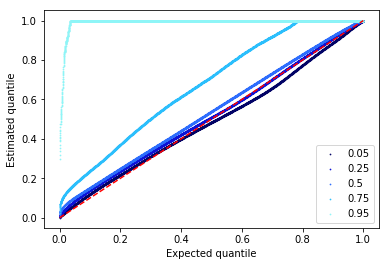
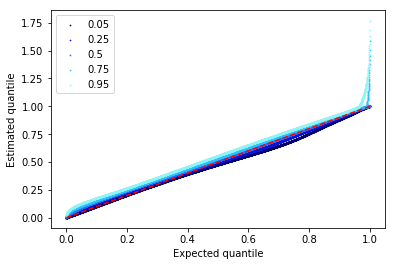
Fix diagnostic to account for dropout

diff --git a/docs/zinb.html b/docs/zinb.html
@@ -1,7 +1,7 @@
 <!DOCTYPE html>
 <html lang="en">
 <head>
-<!-- 2018-02-15 Thu 17:00 -->
+<!-- 2018-02-16 Fri 11:10 -->
 <meta charset="utf-8">
 <meta name="viewport" content="width=device-width, initial-scale=1">
 <title>Mean/dispersion estimation</title>
@@ -276,7 +276,7 @@ analyses:
 <li><a href="#orge3a2968">We develop visual diagnostics</a> of the fitted models to check goodness of fit</li>
 <li><a href="#orge17e562">We fit a model without dropout</a> and show it does not fit the data</li>
 <li><a href="#org3c6170a">We fit a model assuming dropout per gene</a></li>
-<li><a href="#org72d12f4">We fit a model assumint dropout per individual per gene</a></li>
+<li><a href="#org72d12f4">We fit a model assuming dropout per individual per gene</a></li>
 </ol>
 </div>
 </div>
@@ -536,6 +536,13 @@ We can use an idea from <code>ashr</code>: Let \(\hat{G}_{ijk}\) denote the CDF 
 \(\hat{G}_{ijk}(r_{ijk})\) should be uniform.
 </p>
 
+<p>
+In the case of dropout, the PDF has a point mass at zero of size \(\pi\) and
+therefore the distribution of values of the CDF is no longer uniform. To
+handle this, plot randomized quantiles \(\tilde{G}_{ijk}(r_{ijk}) =
+  \hat{G}_{ijk}(r_{ijk}) + \pi U\), where \(U \sim \mathrm{Unif}(0, 1)\).
+</p>
+
 <div class="org-src-container">
 <pre class="src src-ipython"><span class="org-keyword">def</span> <span class="org-function-name">estimated_cdf</span>(x, mean, disp, size, onehot, gene_dropout=<span class="org-constant">None</span>, ind_dropout=<span class="org-constant">None</span>):
   <span class="org-variable-name">n</span> = onehot.dot(np.exp(-disp.values.T) + 1e-8)
@@ -545,9 +552,9 @@ We can use an idea from <code>ashr</code>: Let \(\hat{G}_{ijk}\) denote the CDF 
   <span class="org-keyword">assert</span> (p.values &lt;= 1).<span class="org-builtin">all</span>()
   <span class="org-variable-name">G</span> = st.nbinom(n=n, p=p).cdf(x)
   <span class="org-keyword">if</span> gene_dropout <span class="org-keyword">is</span> <span class="org-keyword">not</span> <span class="org-constant">None</span>:
-    <span class="org-variable-name">G</span> = sp.expit(-gene_dropout.values.T) * G + sp.expit(gene_dropout.values.T)
+    <span class="org-variable-name">G</span> += np.random.uniform(size=G.shape) * sp.expit(gene_dropout.values.T)
   <span class="org-keyword">elif</span> ind_dropout <span class="org-keyword">is</span> <span class="org-keyword">not</span> <span class="org-constant">None</span>:
-    <span class="org-variable-name">G</span> = onehot.dot(sp.expit(-ind_dropout.values.T)) * G + onehot.dot(sp.expit(ind_dropout.values.T))
+    <span class="org-variable-name">G</span> += np.random.uniform(size=G.shape) * onehot.dot(sp.expit(ind_dropout.values.T))
   <span class="org-keyword">return</span> G
 
 <span class="org-keyword">def</span> <span class="org-function-name">diagnostic</span>(umi, mean, disp, size, onehot, **kwargs):
@@ -693,7 +700,7 @@ Plot the diagnostic for the model.
 </div>
 
 <div class="org-src-container">
-<pre class="src src-ipython">diagnostic_quantiles(umi, zi_mean, zi_disp, size, onehot, zi_dropout)
+<pre class="src src-ipython">diagnostic_quantiles(umi, zi_mean, zi_disp, size, onehot, gene_dropout=zi_dropout)
 </pre>
 </div>
 
@@ -759,7 +766,7 @@ Plot the data and fitted distribution.
 </div>
 <div id="postamble" class="status">
 <p class="author">Author: Abhishek Sarkar</p>
-<p class="date">Created: 2018-02-15 Thu 17:00</p>
+<p class="date">Created: 2018-02-16 Fri 11:10</p>
 <p class="validation"><a href="http://validator.w3.org/check?uri=referer">Validate</a></p>
 </div>
 </body>
